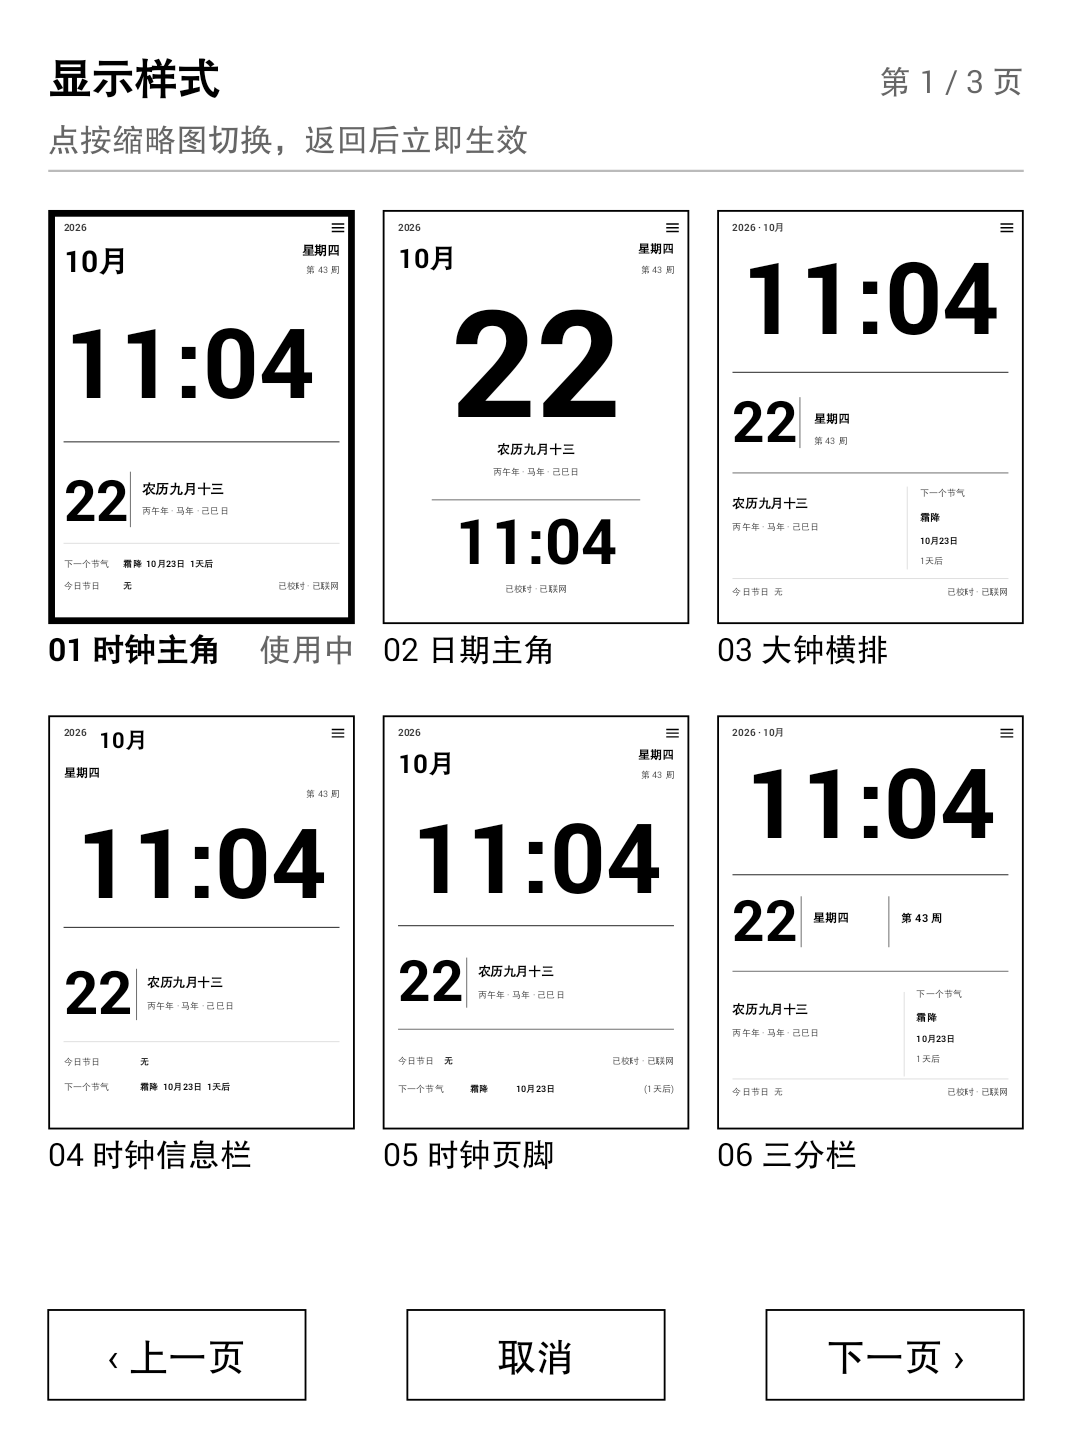
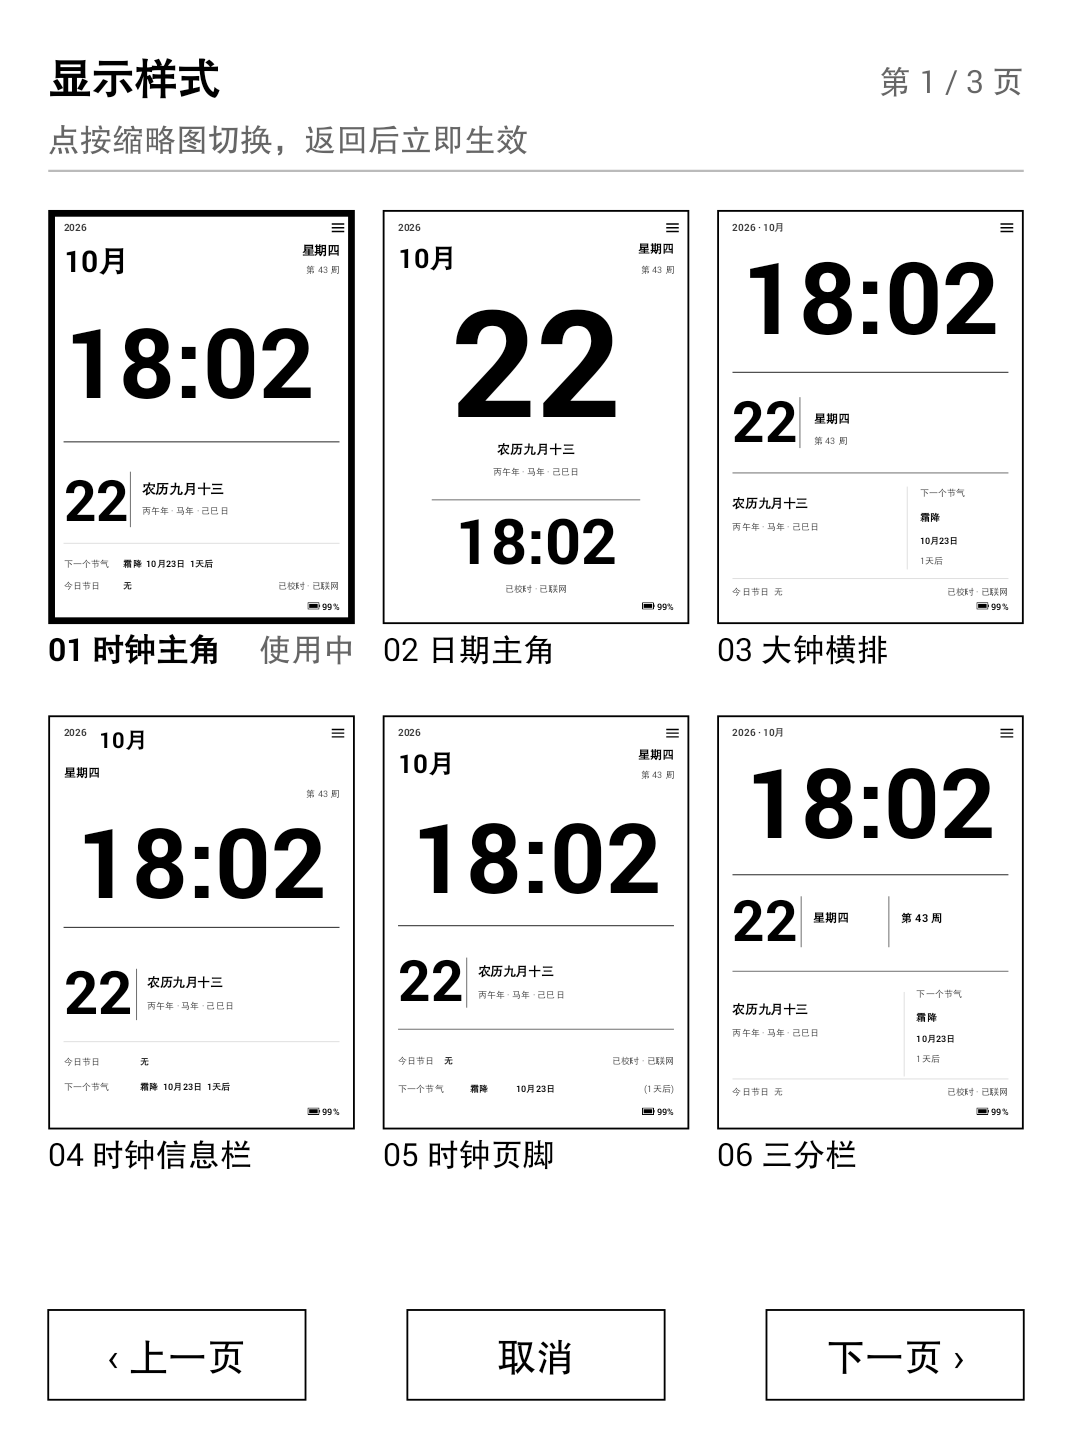
Show battery level on every poster layout and calendar page

diff --git a/app/src/main/java/com/zbl/einkcalendar/PosterRenderer.java b/app/src/main/java/com/zbl/einkcalendar/PosterRenderer.java
@@ -2,7 +2,9 @@ package com.zbl.einkcalendar;
 
 import android.graphics.Canvas;
 import android.graphics.Paint;
+import android.graphics.Path;
 import android.graphics.Typeface;
+
 import android.text.TextUtils;
 
 import java.util.Calendar;
@@ -64,6 +66,9 @@ public class PosterRenderer {
     public String clock = "10:41";
     public String sync = "已校时";
     public String network = "已联网";
+    /** Battery percentage (0-100); negative hides the indicator. */
+    public int batteryPercent = -1;
+    public boolean batteryCharging = false;
     public String termLabel = "下一个节气";
     public String termName = "霜降";
     public String termDate = "10月23日";
@@ -205,6 +210,7 @@ public class PosterRenderer {
             case 14: l03(canvas); break;
             default: l04(canvas); break;
         }
+        drawBattery(canvas, style);
     }
 
     // ------------------------------------------------------------------
@@ -275,6 +281,73 @@ public class PosterRenderer {
         paint.setTypeface(bold ? boldType : regular);
         paint.setTextSize(px * S);
         return fx * W + paint.measureText(s);
+    }
+
+    /**
+     * Battery lives in the bottom-right corner on every layout, portrait and
+     * landscape alike, so the position stays predictable while flicking through
+     * the styles. Landscape uses its own baseline to stay inside layout 13's
+     * inset frame.
+     */
+    private void drawBattery(Canvas c, int style) {
+        if (batteryPercent < 0) {
+            return;
+        }
+        if (style >= FIRST_LANDSCAPE) {
+            battery(c, 0.945f, 0.940f);
+        } else {
+            battery(c, 0.950f, 0.965f);
+        }
+    }
+
+    private void battery(Canvas c, float fxRight, float fyBaseline) {
+        int level = Math.max(0, Math.min(100, batteryPercent));
+        String label = batteryPercent + "%";
+        float textSize = 32f * S;
+        paint.setTypeface(boldType);
+        paint.setTextSize(textSize);
+        paint.setTextAlign(Paint.Align.RIGHT);
+        paint.setColor(INK);
+        float baseline = fyBaseline * H;
+        float rightEdge = fxRight * W;
+        c.drawText(label, rightEdge, baseline, paint);
+        float textLeft = rightEdge - paint.measureText(label);
+
+        float bodyW = 38f * S;
+        float bodyH = 22f * S;
+        float right = textLeft - 12f * S;
+        float left = right - bodyW;
+        float top = baseline - 24f * S;
+        float bottom = top + bodyH;
+
+        line.setColor(INK);
+        line.setStyle(Paint.Style.STROKE);
+        line.setStrokeWidth(2f * S);
+        c.drawRect(left, top, right, bottom, line);
+
+        fill.setColor(INK);
+        fill.setStyle(Paint.Style.FILL);
+        // Positive terminal nub.
+        c.drawRect(right + 1f * S, top + bodyH * 0.30f,
+                right + 4f * S, bottom - bodyH * 0.30f, fill);
+
+        if (batteryCharging) {
+            float cx = (left + right) / 2f;
+            Path bolt = new Path();
+            bolt.moveTo(cx + 5f * S, top + 2f * S);
+            bolt.lineTo(cx - 7f * S, top + bodyH * 0.56f);
+            bolt.lineTo(cx - 1f * S, top + bodyH * 0.56f);
+            bolt.lineTo(cx - 5f * S, bottom - 2f * S);
+            bolt.lineTo(cx + 7f * S, top + bodyH * 0.44f);
+            bolt.lineTo(cx + 1f * S, top + bodyH * 0.44f);
+            bolt.close();
+            c.drawPath(bolt, fill);
+        } else {
+            float pad = 4f * S;
+            float innerW = bodyW - 2f * pad;
+            float filled = innerW * level / 100f;
+            c.drawRect(left + pad, top + pad, left + pad + filled, bottom - pad, fill);
+        }
     }
 
     // ------------------------------------------------------------------

diff --git a/app/src/main/java/com/zbl/einkcalendar/DashboardView.java b/app/src/main/java/com/zbl/einkcalendar/DashboardView.java
@@ -81,6 +81,9 @@ final class DashboardView extends View {
     private String networkStatus = "离线";
     private String syncStatus = "本机时间";
 
+    private int batteryPercent = -1;
+    private boolean batteryCharging = false;
+
     static final int PAGE_POSTER = 0;
     static final int PAGE_CALENDAR = 1;
 
@@ -178,6 +181,16 @@ final class DashboardView extends View {
 
     void setSyncStatus(String status) {
         this.syncStatus = status;
+        invalidate();
+    }
+
+    /** Battery level shown on every layout; pass a negative percent to hide it. */
+    void setBattery(int percent, boolean charging) {
+        if (batteryPercent == percent && batteryCharging == charging) {
+            return;
+        }
+        batteryPercent = percent;
+        batteryCharging = charging;
         invalidate();
     }
 
@@ -606,7 +619,21 @@ final class DashboardView extends View {
     private void drawPoster(Canvas canvas, int w, int h) {
         poster.sync = syncStatus;
         poster.network = networkStatus;
+        poster.batteryPercent = batteryPercent;
+        poster.batteryCharging = batteryCharging;
         poster.draw(canvas, w, h, posterStyle);
+    }
+
+    /** "已校时 · 离线 · 82%" — battery tails the status line on the calendar page. */
+    private String statusLine() {
+        String line = syncStatus + " · " + networkStatus;
+        if (batteryPercent >= 0) {
+            line += " · " + batteryPercent + "%";
+            if (batteryCharging) {
+                line += " 充电中";
+            }
+        }
+        return line;
     }
 
     private void drawHeader(Canvas canvas, int w, int h) {
@@ -650,7 +677,7 @@ final class DashboardView extends View {
         paint.setTextSize(w * 0.030f);
         paint.setColor(SUBTLE);
         canvas.drawText(hClockSub, w - margin, h * 0.155f, paint);
-        canvas.drawText(syncStatus + " · " + networkStatus, w - margin, h * 0.195f, paint);
+        canvas.drawText(statusLine(), w - margin, h * 0.195f, paint);
         paint.setColor(INK);
         paint.setTextAlign(Paint.Align.LEFT);
 
@@ -867,7 +894,7 @@ final class DashboardView extends View {
         paint.setTypeface(Typeface.DEFAULT);
         paint.setTextSize(textSize);
         paint.setTextAlign(Paint.Align.RIGHT);
-        canvas.drawText(syncStatus + " · " + networkStatus, w - margin - 80f,
+        canvas.drawText(statusLine(), w - margin - 80f,
                 h * 0.062f, paint);
         paint.setTextAlign(Paint.Align.LEFT);
         paint.setColor(INK);

diff --git a/app/src/main/java/com/zbl/einkcalendar/MainActivity.java b/app/src/main/java/com/zbl/einkcalendar/MainActivity.java
@@ -13,6 +13,7 @@ import android.graphics.Typeface;
 import android.graphics.drawable.ColorDrawable;
 import android.graphics.drawable.GradientDrawable;
 import android.net.ConnectivityManager;
+import android.os.BatteryManager;
 import android.os.Bundle;
 import android.os.Handler;
 import android.os.PowerManager;
@@ -89,6 +90,28 @@ public class MainActivity extends Activity implements DashboardView.Listener {
             }
         }
     };
+
+    private final BroadcastReceiver batteryReceiver = new BroadcastReceiver() {
+        @Override
+        public void onReceive(Context context, Intent intent) {
+            updateBattery(intent);
+        }
+    };
+
+    /** Reads level/charging from the sticky ACTION_BATTERY_CHANGED broadcast. */
+    private void updateBattery(Intent intent) {
+        if (intent == null || dashboard == null) {
+            return;
+        }
+        int level = intent.getIntExtra(BatteryManager.EXTRA_LEVEL, -1);
+        int scale = intent.getIntExtra(BatteryManager.EXTRA_SCALE, -1);
+        int percent = (level >= 0 && scale > 0)
+                ? Math.round(level * 100f / scale) : -1;
+        int status = intent.getIntExtra(BatteryManager.EXTRA_STATUS, -1);
+        boolean charging = status == BatteryManager.BATTERY_STATUS_CHARGING
+                || status == BatteryManager.BATTERY_STATUS_FULL;
+        dashboard.setBattery(percent, charging);
+    }
 
     /**
      * Last line of defence: some vendor power services switch the panel off
@@ -191,6 +214,8 @@ public class MainActivity extends Activity implements DashboardView.Listener {
         handler.post(ticker);
         IntentFilter filter = new IntentFilter(ConnectivityManager.CONNECTIVITY_ACTION);
         registerReceiver(connectivityReceiver, filter);
+        registerReceiver(batteryReceiver,
+                new IntentFilter(Intent.ACTION_BATTERY_CHANGED));
         if (!screenReceiverRegistered) {
             registerReceiver(screenReceiver, new IntentFilter(Intent.ACTION_SCREEN_OFF));
             screenReceiverRegistered = true;
@@ -220,6 +245,10 @@ public class MainActivity extends Activity implements DashboardView.Listener {
             screenReceiverRegistered = false;
         }
         releaseScreenLock();
+        try {
+            unregisterReceiver(batteryReceiver);
+        } catch (Exception ignored) {
+        }
         try {
             unregisterReceiver(connectivityReceiver);
         } catch (Exception ignored) {

diff --git a/app/src/main/java/com/zbl/einkcalendar/StylePickerActivity.java b/app/src/main/java/com/zbl/einkcalendar/StylePickerActivity.java
@@ -2,7 +2,10 @@ package com.zbl.einkcalendar;
 
 import android.app.Activity;
 import android.content.Context;
+import android.content.Intent;
+import android.content.IntentFilter;
 import android.content.SharedPreferences;
+import android.os.BatteryManager;
 import android.os.Bundle;
 import android.os.PowerManager;
 import android.view.View;
@@ -32,6 +35,17 @@ public class StylePickerActivity extends Activity implements StylePickerView.Lis
         SharedPreferences prefs = getSharedPreferences(PREFS, MODE_PRIVATE);
         StylePickerView view = new StylePickerView(this, prefs.getInt("poster_style", 0), this);
         setContentView(view);
+        Intent battery = registerReceiver(null,
+                new IntentFilter(Intent.ACTION_BATTERY_CHANGED));
+        if (battery != null) {
+            int level = battery.getIntExtra(BatteryManager.EXTRA_LEVEL, -1);
+            int scale = battery.getIntExtra(BatteryManager.EXTRA_SCALE, -1);
+            int percent = (level >= 0 && scale > 0)
+                    ? Math.round(level * 100f / scale) : -1;
+            int status = battery.getIntExtra(BatteryManager.EXTRA_STATUS, -1);
+            view.setBattery(percent, status == BatteryManager.BATTERY_STATUS_CHARGING
+                    || status == BatteryManager.BATTERY_STATUS_FULL);
+        }
         String shotName = getIntent().getStringExtra("shot_name");
         if (shotName != null) {
             DebugShot.capture(view, shotName);

diff --git a/app/src/main/java/com/zbl/einkcalendar/StylePickerView.java b/app/src/main/java/com/zbl/einkcalendar/StylePickerView.java
@@ -71,6 +71,13 @@ class StylePickerView extends View {
         setBackgroundColor(PAPER);
     }
 
+    /** Battery level drawn inside every thumbnail. */
+    void setBattery(int percent, boolean charging) {
+        preview.batteryPercent = percent;
+        preview.batteryCharging = charging;
+        invalidate();
+    }
+
     @Override
     protected void onSizeChanged(int w, int h, int oldw, int oldh) {
         super.onSizeChanged(w, h, oldw, oldh);

diff --git a/README.md b/README.md
@@ -55,6 +55,10 @@
 - **网络校时**：读取 HTTP 响应的 `Date` 头计算本机时钟偏差（不改系统时间），
   启动时与每 6 小时校一次；断网时自动回退到本机时间。
 - **底部详情**：选中日期的完整信息 + 未来 3 个节气/节日倒计时。
+- **全部 16 套版式都显示电量**：电池图标 + 百分比统一贴在**右下角**（竖版、横版同一位置），
+  与页边距对齐，字号 32px 粗体；充电时图标内绘制闪电，未充电时按电量填充。
+  月历页顶部状态行末尾也会附带百分比。电量由系统 `ACTION_BATTERY_CHANGED`
+  广播驱动，只在数值变化时重绘，不会触发闪屏。
 
 ## 墨水屏设计约定
 
